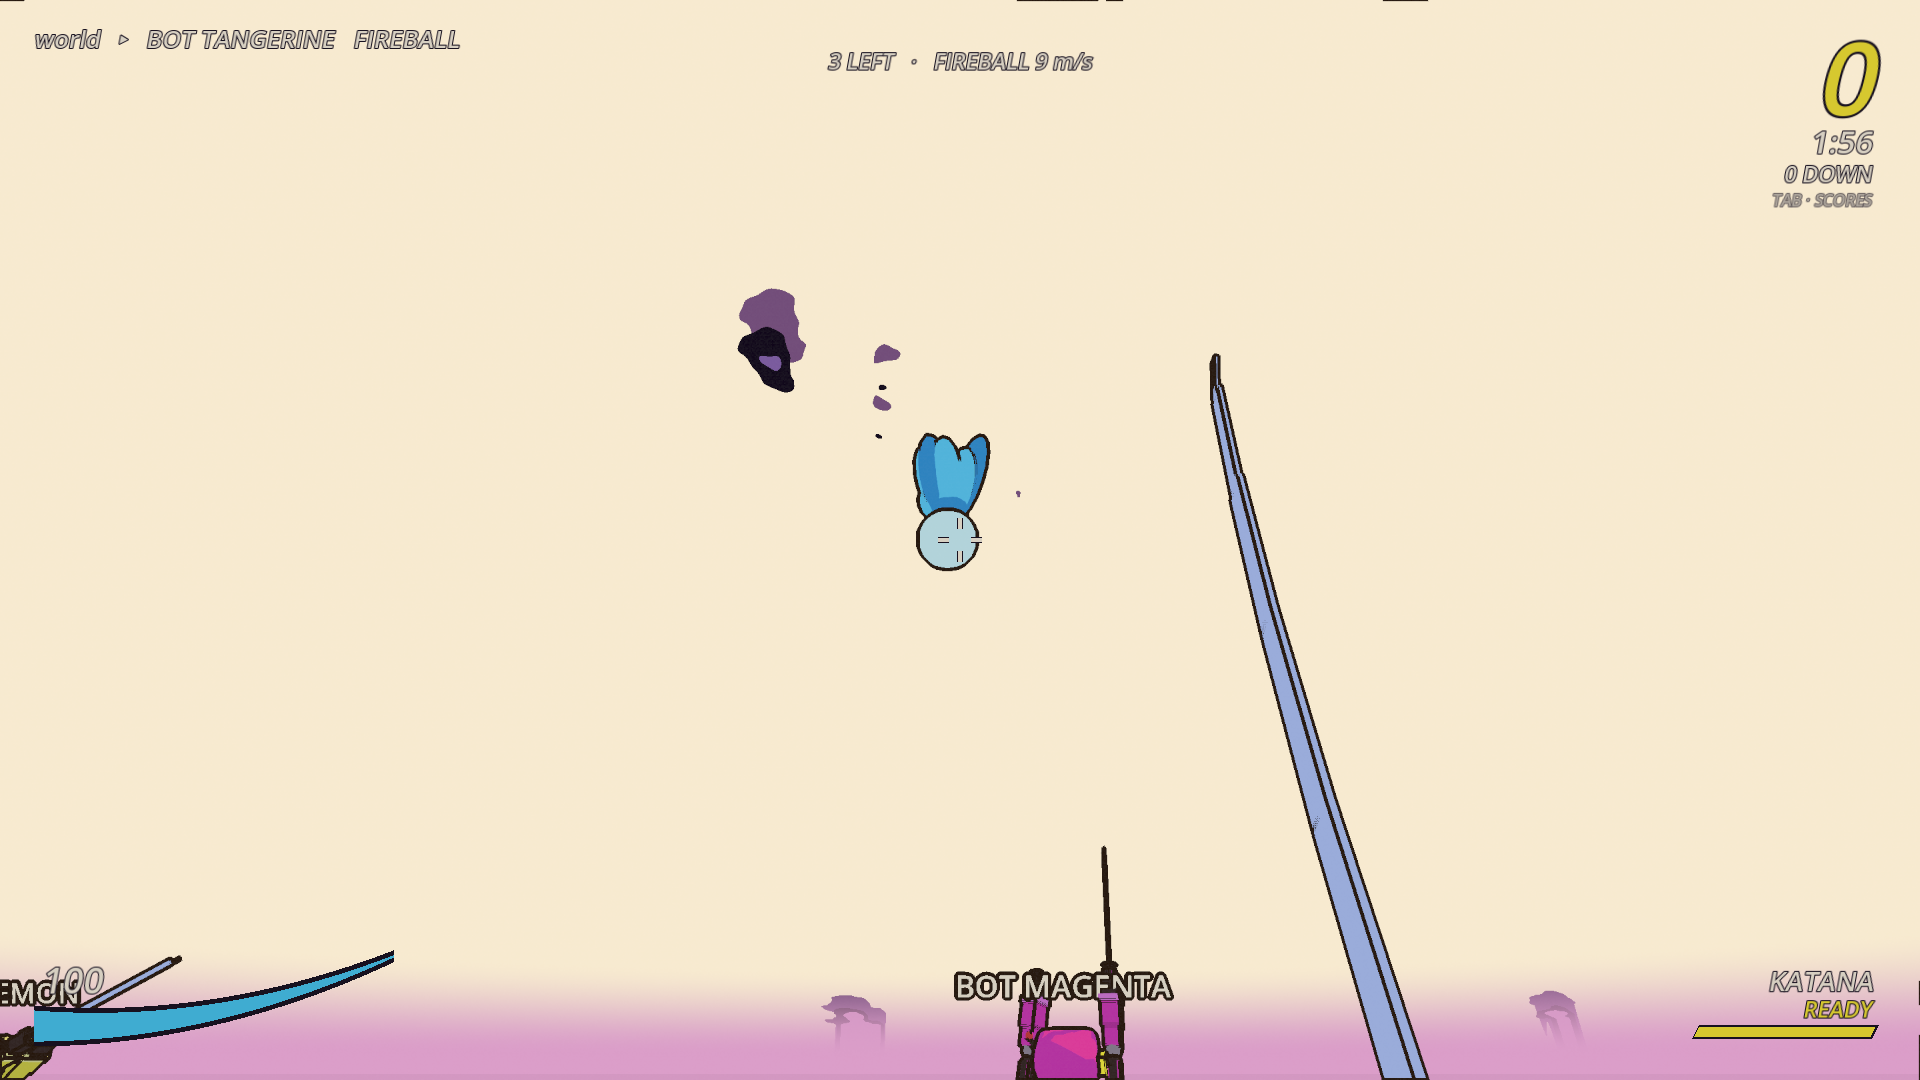
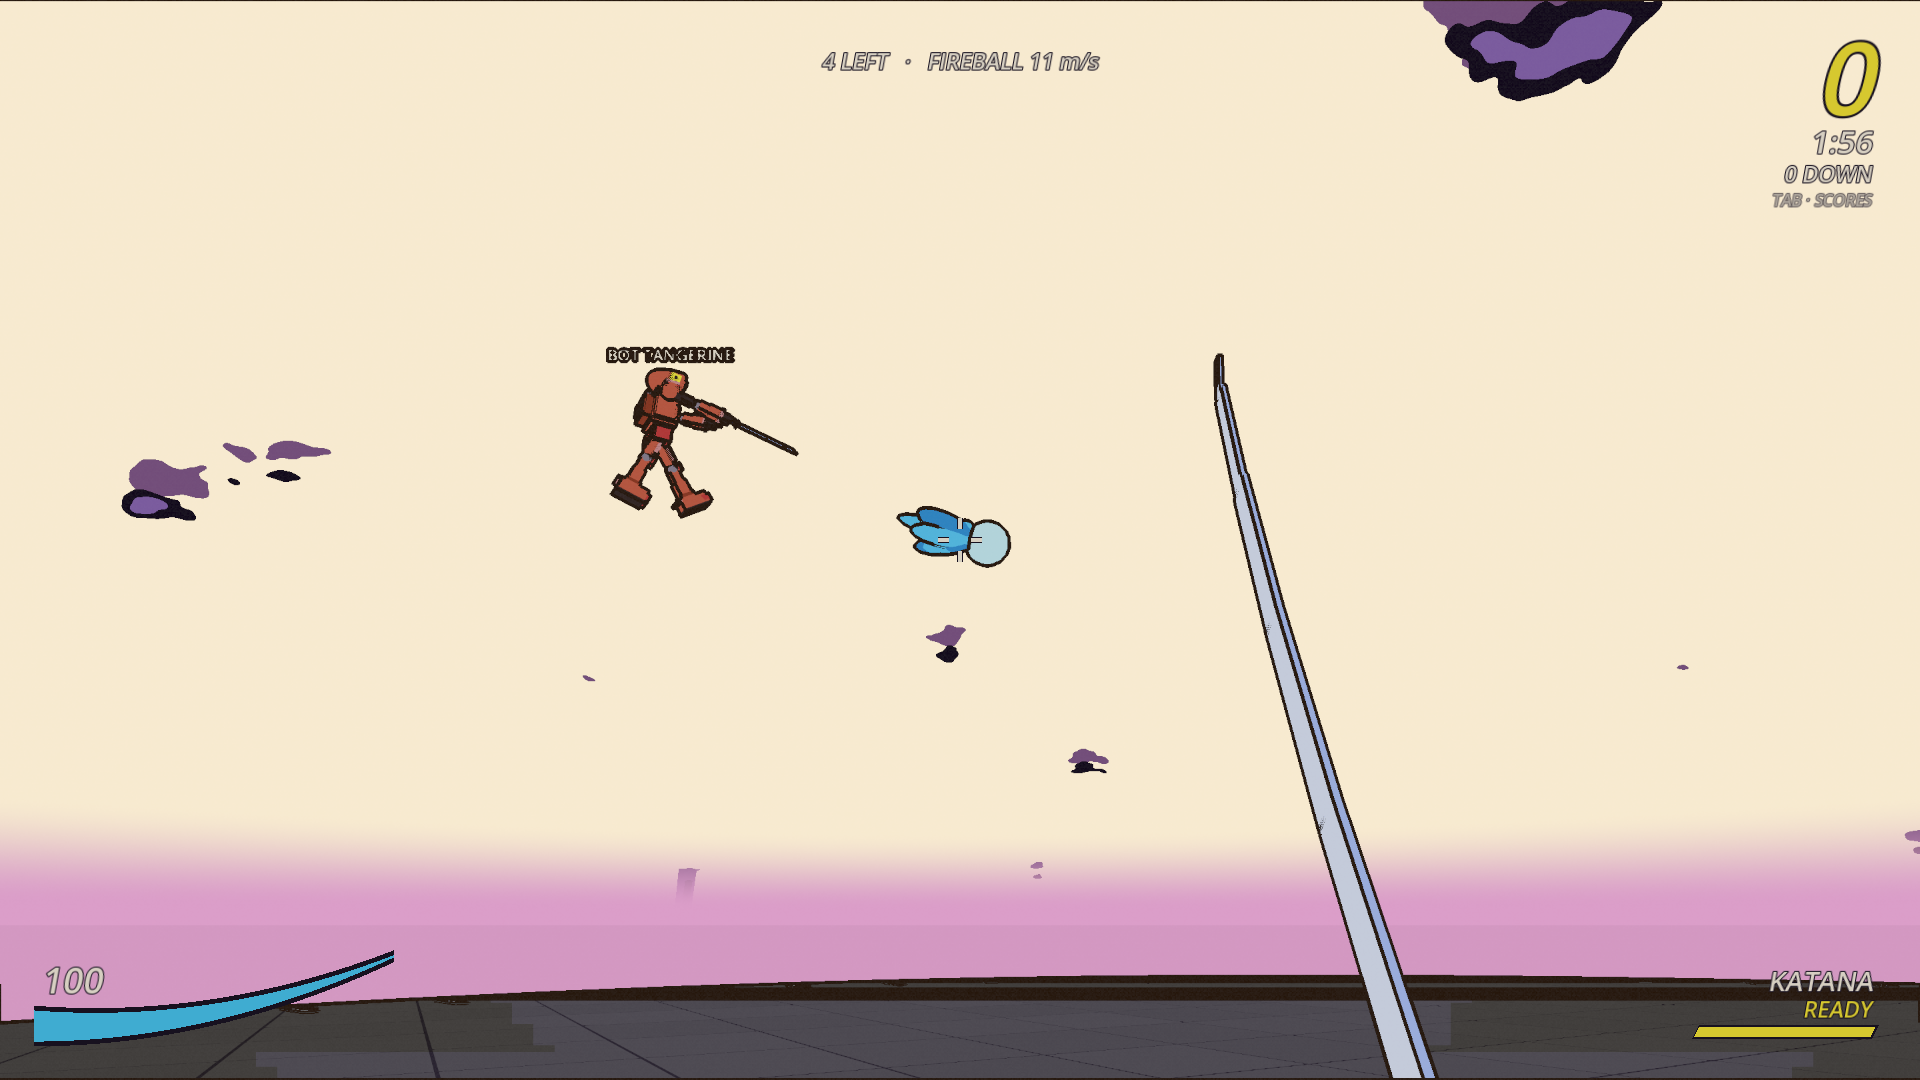
FIREBALL twice the size, the ball from 12 m, a quarter of the gravity
Sean's note: the platform's radius 17 -> 34 m (spawns on a 22 m ring, the
rim's dashes one every 3 m, the briefing's vantage scaled with the radius),
the ball's spawn height 6 -> 12 m, gravity_multiplier 0.5 -> 0.25 (a 5.95 m
jump that hangs 3.9 s). Speeds untouched. Tests green, a headless match
rallied to 15 m/s with nobody off the edge; three frames retaken.

diff --git a/DECISIONS.md b/DECISIONS.md
@@ -206,3 +206,4 @@ Append-only. One line per assumption: date, the decision, the reason. Newest at 
 - 2026-09-24 — FIREBALL's bots (`FireballBrain`, also the `--autoplay` seat): no hunting; wander inside 0.7 of the radius (a new spot every 2.5–5 s), eyes on the ball, and when it turns on them decide after `reaction_ms` (easy 220, normal 120, hard 40) to reflect (`parry_chance` 0.55 / 0.8 / 0.95: turn to a player inside 70° of the ball so the ball stays in the cone, press `press_seconds` 0.22–0.25 before it lands), dodge (a sidestep and a jump away from the rim) or freeze. Numbers under `bots` in `tuning/fireball.json`.
 - 2026-09-24 — The final-kill cam replays the ball: every peer keeps its position per tick (300 ticks, like the bodies) and `killcam_place(pt)` puts the view there; `killcam_fire("fireball")` bursts the ball and plays its hit instead of a tracer and a gunshot; the killer's katana is the ghost weapon with its guard replayed (`Player._record_replay` stores the parry progress for a melee slot where the guns store the scope-in). `--screenshot_event=parry` arms on the local reflect press. Sounds: `katana_swing`, `katana_parry`, `fireball_launch`, `fireball_reflect`, `fireball_hit` and the looping `fireball_hum` on the ball (pitch up with the speed), all synthesised. The pipeline warm-up now draws an unshaded opaque material and an omni light (the ball's; the first omni light in the game). The reflect's burst is 0.5 m: at 0.9 m, a metre from the reflector's eye, it filled the frame.
 - 2026-09-24 — Measured, FIREBALL at 1080p, scale 1.5, host + 3 bots on the 5090 (`--perf`, 30 s): frame 6.18 ms mean / 8.00 p95, GPU 0.69 mean / 1.06 p95, render CPU 0.21; PACING median 6 ms, 29 frames over 1.5× (0.9 %), 0 over 2×, longest 12 ms, 0 pipelines compiled while playing. `tools/check_all.sh` green: 94 tests, 108 scripts, determinism identical to the byte, the board match drawing LAST STAND then FIREBALL with no warnings. Frames: `fireball_hover.png`, `fireball_platform.png`, `fireball_reflect.png`, `fireball_briefing.png`, `fireball_out.png`, `fireball_killcam.png`. His verdict on the look, the feel and the name is pending.
+- 2026-09-25 — Sean: "make the map 2x bigger and have the flameball start at a higher altitude and decrease gravity by 50%". `tuning/fireball.json`: the platform's radius 17 → 34 m (68 m across; the spawn ring 11 → 22 m; the rim's dashes are one every 3 m of rim now, 68 of them, and the briefing's vantage scales with the radius), the ball's spawn height 6 → 12 m, `gravity_multiplier` 0.5 → 0.25 (3.125 m/s²: the same 6.1 m/s jump goes 5.95 m and hangs 3.9 s; the fall past y = −14 takes 3 s). The ball's speeds are untouched (9 m/s crosses the platform in 7.5 s now; his call if that is slow). Headless, seed 7: rallies to 15 m/s, nobody fell, 94 tests, no warnings. `fireball_hover.png`, `fireball_briefing.png` and `fireball_platform.png` retaken.

diff --git a/MINIGAMES.md b/MINIGAMES.md
@@ -45,18 +45,19 @@ own uses the ARENA layout (`GrayboxLayout`); LAST STAND carries `pit_layout.gd`,
 Sean's Genji Ball (2026-09-24). Every number is in `tuning/fireball.json`; the katana's are in
 `tuning/weapons.json` under `katana`.
 
-- **The map**: one round platform (radius 17 m, its top at y = 0, dark grey with the paving print,
+- **The map**: one round platform (radius 34 m, doubled on his 2026-09-25 note, its top at y = 0, dark grey with the paving print,
   a dashed ring inside the rim and a disc at the centre) floating in the board's pink sky, no walls.
-  Everyone spawns on a ring (11 m) evenly spaced, facing the centre, as many spawns as seats. Off
-  the platform is out (a fall past y = −14 m; the feed says FELL). Gravity is half the shared
-  movement's (6.25 m/s²) with the same jump, so a jump goes twice as high and hangs twice as long.
+  Everyone spawns on a ring (22 m) evenly spaced, facing the centre, as many spawns as seats. Off
+  the platform is out (a fall past y = −14 m; the feed says FELL). Gravity is a quarter of the
+  shared movement's (3.125 m/s²: half on 2026-09-24, halved again on his 2026-09-25 note) with the
+  same jump, so a jump goes 5.95 m instead of 1.49 and hangs 3.9 s.
 - **The katana** (weapon model `melee`, the only weapon): RIGHT CLICK opens the reflect window
   (`parry_ticks` 18 = 0.3 s) and starts its cooldown (`parry_cooldown_ticks` 54 = 0.9 s, press to
   press; holding the button re-opens it whenever it is ready). LEFT CLICK swings the blade
   (`swing_ticks` 24); the swing hits nothing, the ball is the only thing that kills. The window
   and the cooldown are rollback state (`Weapons:parry_since_tick`, `Weapons:parry_ready_tick`);
   the swing is not.
-- **The ball**: appears 6 m over the centre when the GET READY countdown ends, hovers 0.75 s, then
+- **The ball**: appears 12 m over the centre (6 m until 2026-09-25) when the GET READY countdown ends, hovers 0.75 s, then
   flies at a player drawn from the living (seeded) at `speed_start_m_s` 9, homing on their chest
   (`aim_height_m` 1.1) at `homing_turn_deg_s` 160. Its light-blue fire is drawn on every peer from
   the host's state (sent every tick, unreliable, dead-reckoned between), its events (spawn,

diff --git a/CLAUDE.md b/CLAUDE.md
@@ -77,7 +77,7 @@ that travels with the repo.
   in their manifests, the folders untouched, `--minigame=ID` still pins them, the lobby's QUICK ARENA still
   starts ARENA. KING OF THE HILL was removed on his word (2026-09-22); the FpsMatch hooks it added stay.
   FIREBALL (2026-09-24) is his Genji Ball, built to his note item by item: a large dark grey round platform
-  everyone spawns on evenly spaced, the board's pink sky, half gravity ("so we can jump higher"), a katana
+  everyone spawns on evenly spaced (r 17 m, doubled to 34 m with the ball starting at 12 m on his 2026-09-25 note), the board's pink sky, a quarter of the shared gravity (half on 2026-09-24, "so we can jump higher", halved again 2026-09-25), a katana
   held in both hands (a new weapon, model "melee": RIGHT CLICK reflects, LEFT CLICK swings and hits nothing),
   a light-blue fireball that appears after the 3 s countdown, homes on a player, kills on touch, reflects
   off an open guard toward whoever the crosshair is nearest to and gets faster every reflect; one life,

diff --git a/STATUS.md b/STATUS.md
@@ -971,3 +971,14 @@ then FIREBALL with no warnings.
    client's press meets the host's ball; the window and range are in `tuning/fireball.json`), the
    bots, the name.
 2. Unchanged: the drawn board in play (session 14), the display and driver settings (session 11).
+
+## 2026-09-25 — session 16: FIREBALL twice the size
+
+Sean's three items: the platform's radius 17 → 34 m (spawns on a 22 m ring), the ball starting
+at 12 m instead of 6, gravity a quarter of the shared value (3.125 m/s²: a 5.95 m jump, 3.9 s in
+the air). Speeds untouched. 94 tests green; a headless match with 3 bots rallied to 15 m/s with
+nobody off the edge; `fireball_hover.png`, `fireball_briefing.png`, `fireball_platform.png` retaken.
+
+### Next
+1. Sean plays the big platform: the ball's 9 m/s start across 68 m, the floaty jump, the bots.
+2. Unchanged: session 15's list (the katana's look, the reflect online, the name).
